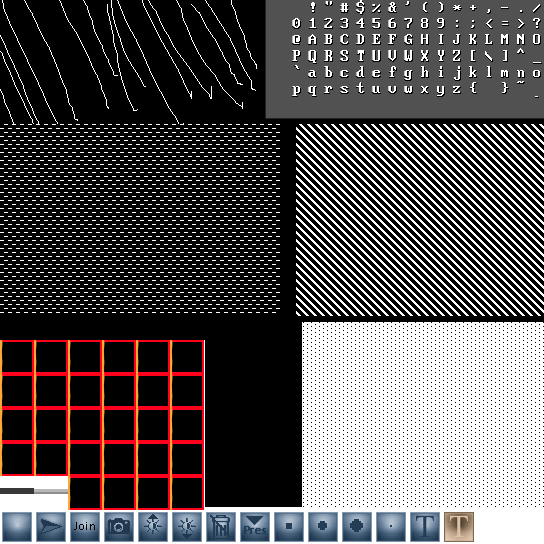
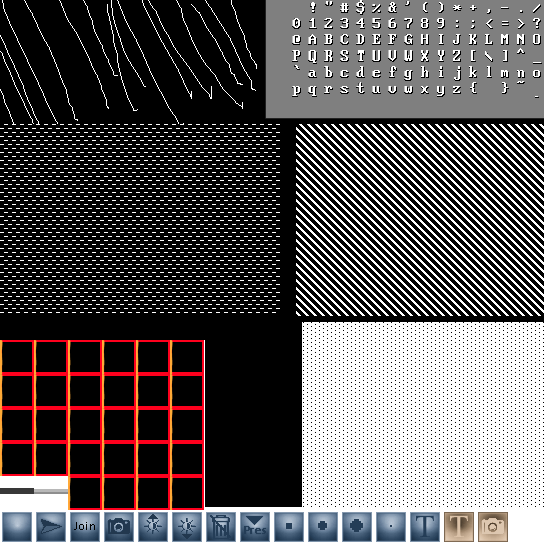
typing text complete

Changed region(s): [[0.4688, 0.0, 1.0, 0.2188], [0.875, 0.9375, 0.9375, 1.0]]

diff --git a/src/typer.rs b/src/typer.rs
@@ -1,25 +1,23 @@
-use std::thread::current;
-
 use crate::glyphface::GlyphFace;
 
-const CANVAS_WIDTH: i32 = 200;
+const CANVAS_WIDTH: u16 = 200;
 
 #[derive(Clone, Debug, Copy)]
 pub struct ArrayCoord {
-    pub x: i32,
-    pub y: i32,
+    pub x: u16,
+    pub y: u16,
 }
 
 impl ArrayCoord {
-    pub fn to_index(&self) -> i32 {
-        self.y * CANVAS_WIDTH + self.x
+    pub fn to_index(&self) -> u16 {
+        (self.y * CANVAS_WIDTH + self.x).clamp(0, CANVAS_WIDTH*CANVAS_WIDTH - 1)
     }
-    pub fn new(x: i32, y: i32) -> ArrayCoord {
+    pub fn new(x: u16, y: u16) -> ArrayCoord {
         ArrayCoord {
             x, y
         }
     }
-    pub fn set(&mut self, x: i32, y: i32) {
+    pub fn set(&mut self, x: u16, y: u16) {
         self.x = x;
         self.y = y;
     }
@@ -30,8 +28,8 @@ pub struct Typer {
     pub started: bool,
     pub current_start: ArrayCoord,
     pub head: ArrayCoord,
-    gwidth: i32,
-    gheight: i32,
+    gwidth: u16,
+    gheight: u16,
     g: GlyphFace
 }
 
@@ -47,9 +45,9 @@ impl Typer {
             g: GlyphFace::new(0)
         }
     }
-    pub fn place_head_and_start(&mut self, x: i32, y: i32) {
-        self.head.set(x, y);
-        self.current_start.set(x, y);
+    pub fn place_head_and_start(&mut self, x: u16, y: u16) {
+        self.head.set(x , y);
+        self.current_start.set(x , y);
         self.started = true;
     }
     pub fn type_letter(&mut self, canvas: &mut Vec<u8>, charcode: u8, guitex: &Vec<u8>) {
@@ -58,6 +56,9 @@ impl Typer {
             self.head.y += self.gheight;
             self.head.x = self.current_start.x;
         } else {
+            if self.head.x >= CANVAS_WIDTH - self.gwidth {
+                self.type_letter(canvas, 10, guitex);
+            }
             let letter_buffer = self.letter_buffer(charcode, guitex);
             let start_index = self.head.to_index();
 
@@ -65,7 +66,7 @@ impl Typer {
                 let row_start_index = start_index + i * CANVAS_WIDTH;
                 let letter_start_index = i * self.gwidth;
                 for k in 0..self.gwidth {
-                    let current_row_index = row_start_index + k;
+                    let current_row_index = (row_start_index + k).clamp(0, CANVAS_WIDTH*CANVAS_WIDTH - 1);
                     let current_letter_row_index = letter_start_index + k;
 
                     canvas[current_row_index as usize] = letter_buffer[current_letter_row_index as usize];
@@ -76,13 +77,24 @@ impl Typer {
         }
     }
     pub fn backspace(&mut self, canvas: &mut Vec<u8>) {
-            self.head.x -= self.gwidth;
+            if self.head.x <= self.current_start.x {
+                if self.head.y >= self.gheight && self.head.y > self.current_start.y {
+                    self.head.y -= self.gheight;
+                }
+                let remainder = self.current_start.x % self.gwidth;
+
+                self.head.x = (CANVAS_WIDTH - ((self.gwidth + (self.gwidth/2)) - remainder)); //- xadjust;
+            } else {
+                self.head.x -= self.gwidth;
+            }
+
+            
             let start_index = self.head.to_index();
 
             for i in 0..self.gheight {
                 let row_start_index = start_index + i * CANVAS_WIDTH;
                 for k in 0..self.gwidth {
-                    let current_row_index = row_start_index + k;
+                    let current_row_index = (row_start_index + k).clamp(0, CANVAS_WIDTH*CANVAS_WIDTH - 1);
 
                     canvas[current_row_index as usize] = 127;
                 }
@@ -94,8 +106,8 @@ impl Typer {
         self.g.set_char(charcode);
         
 
-        let x_start = (self.g.tlx * 544.0) as i32;
-        let y_start = (self.g.tly * 544.0) as i32;
+        let x_start = (self.g.tlx * 544.0) as u16;
+        let y_start = (self.g.tly * 544.0) as u16;
 
         for i in 0..self.gheight {
             let row_start = x_start + (y_start + i) * 544;

diff --git a/src/main.rs b/src/main.rs
@@ -171,7 +171,7 @@ fn increase_contrast(image: &[u8], factor: f32) -> Vec<u8> {
 }
 
 
-fn glfw_mouse_pos_to_canvas_pos(mouse: &MousePos, window: &glfw::Window) -> (i32, i32) {
+fn glfw_mouse_pos_to_canvas_pos(mouse: &MousePos, window: &glfw::Window) -> (u16, u16) {
     let (width, height) = window.get_size();
 
     let adjusted_m_y = (mouse.y - (height / 2)).max(0);
@@ -179,8 +179,8 @@ fn glfw_mouse_pos_to_canvas_pos(mouse: &MousePos, window: &glfw::Window) -> (i32
     let mut m_x_dist = (mouse.x as f32 / width as f32).clamp(0.0, 1.0);
     let mut m_y_dist = (adjusted_m_y as f32 / (height / 2) as f32).clamp(0.0, 1.0);
 
-    let d_x = (m_x_dist * 200.0) as i32;
-    let d_y = (m_y_dist * 200.0) as i32;
+    let d_x = (m_x_dist * 200.0) as u16;
+    let d_y = (m_y_dist * 200.0) as u16;
 
     return (d_x, d_y);
 }
@@ -302,9 +302,12 @@ fn main() {
 
     let clear_func: Box<dyn Fn()> = {
         let draw_pixels = Arc::clone(&draw_pixels);
+        let text_pixels = Arc::clone(&text_pixels);
         Box::new(move || {
             let mut draw_pixels = draw_pixels.lock().unwrap();
+            let mut text_pixels = text_pixels.lock().unwrap();
             (*draw_pixels).data.fill(127);
+            (*text_pixels).fill(127);
         })
     };
 
@@ -319,13 +322,27 @@ fn main() {
     let cam_func: Box<dyn Fn()> = {
         let cam = Arc::clone(&cam);
         let cam_pixels = Arc::clone(&cam_pixels);
+        let fixswaps = Arc::clone(&fixtureswapqueue);
+            
         Box::new(move || {
             let mut cam = cam.lock().unwrap();
             let mut cam_pixels = cam_pixels.lock().unwrap();
+            let mut fixswaps = fixswaps.lock().unwrap();
             cam.toggle();
-            if !cam.camera_mode {
-                (*cam_pixels).fill(0);
-            }
+
+            let (newx, newy) = match cam.camera_mode {
+                true => {
+                    (14, 0)
+                },
+                false => {
+                    (*cam_pixels).fill(0);
+                    (3, 0)
+                }
+            };
+            fixswaps.push(FixtureSwap{
+                tooltip: String::from("Toggle Camera"), 
+                newtexx: newx, 
+                newtexy: newy});
         })
     };
 
